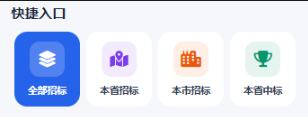
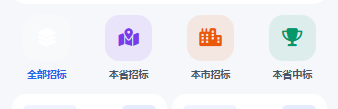
fix: 增强快捷入口选中状态视觉效果
修改内容:
- 选中状态使用实色背景（非透明色），更加醒目
  - 全部招标：#2563EB（蓝色实底）
  - 本省招标：#7C3AED（紫色实底）
  - 本市招标：#EA580C（橙色实底）
  - 本省中标：#059669（绿色实底）
- 未选中状态使用对应的浅色背景
- 图标容器尺寸增大至 56x56，圆角增大至 18px
- 增强阴影效果，选中状态更有立体感
- 文字颜色跟随对应的主题色

diff --git a/client/screens/home/index.tsx b/client/screens/home/index.tsx
@@ -81,10 +81,10 @@ export default function HomeScreen() {
 
   // 快捷入口 - 固定4个
   const quickActions = [
-    { key: 'all', label: '全部招标', icon: 'layer-group', color: '#2563EB', bgColor: 'rgba(37, 99, 235, 0.1)' },
-    { key: 'province', label: '本省招标', icon: 'map-location-dot', color: '#7C3AED', bgColor: 'rgba(124, 58, 237, 0.1)' },
-    { key: 'city', label: '本市招标', icon: 'city', color: '#EA580C', bgColor: 'rgba(234, 88, 12, 0.1)' },
-    { key: 'provinceWin', label: '本省中标', icon: 'trophy', color: '#059669', bgColor: 'rgba(5, 150, 105, 0.1)' },
+    { key: 'all', label: '全部招标', icon: 'layer-group', color: '#2563EB', bgColor: '#EFF6FF', activeBgColor: '#2563EB' },
+    { key: 'province', label: '本省招标', icon: 'map-location-dot', color: '#7C3AED', bgColor: '#F5F3FF', activeBgColor: '#7C3AED' },
+    { key: 'city', label: '本市招标', icon: 'city', color: '#EA580C', bgColor: '#FFF7ED', activeBgColor: '#EA580C' },
+    { key: 'provinceWin', label: '本省中标', icon: 'trophy', color: '#059669', bgColor: '#ECFDF5', activeBgColor: '#059669' },
   ];
 
   const fetchStats = async () => {
@@ -544,13 +544,15 @@ export default function HomeScreen() {
               return (
                 <TouchableOpacity
                   key={action.key}
-                  style={[styles.quickActionCard, isActive && styles.quickActionCardActive]}
+                  style={[styles.quickActionCard]}
                   onPress={() => handleFilterPress(action.key)}
                   activeOpacity={0.7}
                 >
                   <View style={[
                     styles.quickActionIconWrapper,
-                    { backgroundColor: isActive ? 'rgba(255,255,255,0.25)' : action.bgColor }
+                    { 
+                      backgroundColor: isActive ? action.activeBgColor : action.bgColor,
+                    }
                   ]}>
                     <FontAwesome6 
                       name={action.icon as any} 
@@ -560,7 +562,7 @@ export default function HomeScreen() {
                   </View>
                   <Text style={[
                     styles.quickActionLabel,
-                    isActive && styles.quickActionLabelActive
+                    isActive && { color: action.color }
                   ]}>
                     {action.label}
                   </Text>

diff --git a/client/screens/home/styles.ts b/client/screens/home/styles.ts
@@ -186,41 +186,30 @@ export const createStyles = (theme: Theme) => {
       paddingHorizontal: 4,
       alignItems: 'center',
     },
-    quickActionCardActive: {
-      // Active state styling handled in children
-    },
     quickActionIconWrapper: {
-      width: 52,
-      height: 52,
-      borderRadius: 16,
+      width: 56,
+      height: 56,
+      borderRadius: 18,
       justifyContent: 'center',
       alignItems: 'center',
       marginBottom: Spacing.xs + 2,
-      backgroundColor: '#FFFFFF',
       ...Platform.select({
         ios: {
           shadowColor: '#1E40AF',
-          shadowOffset: { width: 0, height: 2 },
-          shadowOpacity: 0.08,
+          shadowOffset: { width: 0, height: 3 },
+          shadowOpacity: 0.12,
           shadowRadius: 8,
         },
         android: {
-          elevation: 2,
+          elevation: 3,
         },
       }),
-    },
-    quickActionCardActive: {
-      // Handled inline
     },
     quickActionLabel: {
       fontSize: 11,
       fontWeight: '600',
-      color: '#475569',
+      color: '#64748B',
       textAlign: 'center',
-    },
-    quickActionLabelActive: {
-      color: '#2563EB',
-      fontWeight: '700',
     },
     
     // ==================== Bid List ====================
